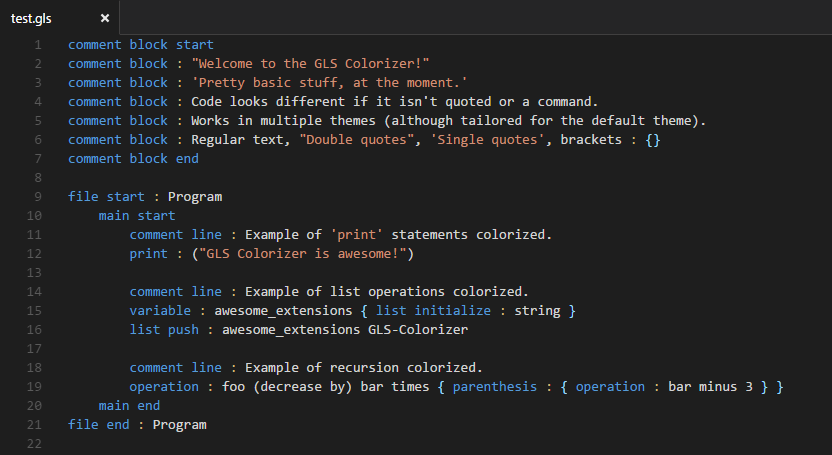
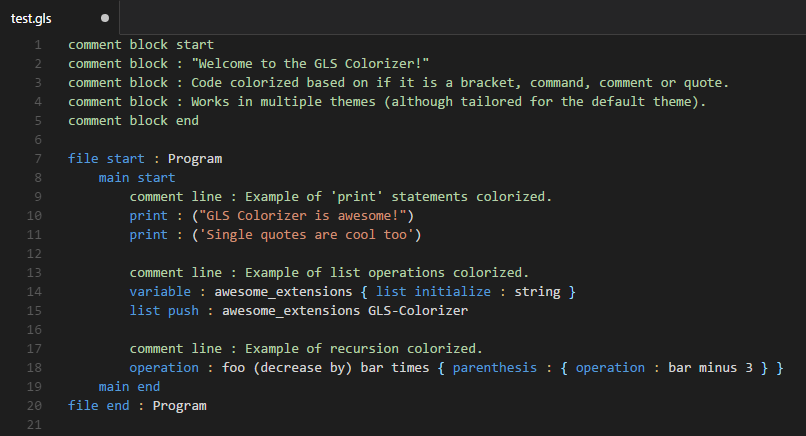
Added comment text, changed colors, updated readme

diff --git a/README.md b/README.md
@@ -10,3 +10,7 @@ The GLS Colorizer distinguishes all commands, command info, quotations and brack
 ![GLS Colorizer Example](https://raw.githubusercontent.com/Ben-Wolf/VSCode-GLS-Colorizer/master/screenshots/example.png)
 
 ## Known Issues
+
+*Comment blocks only affect individual lines. 
+
+![Comment Block Issue](screenshots/comment_issue.png)
